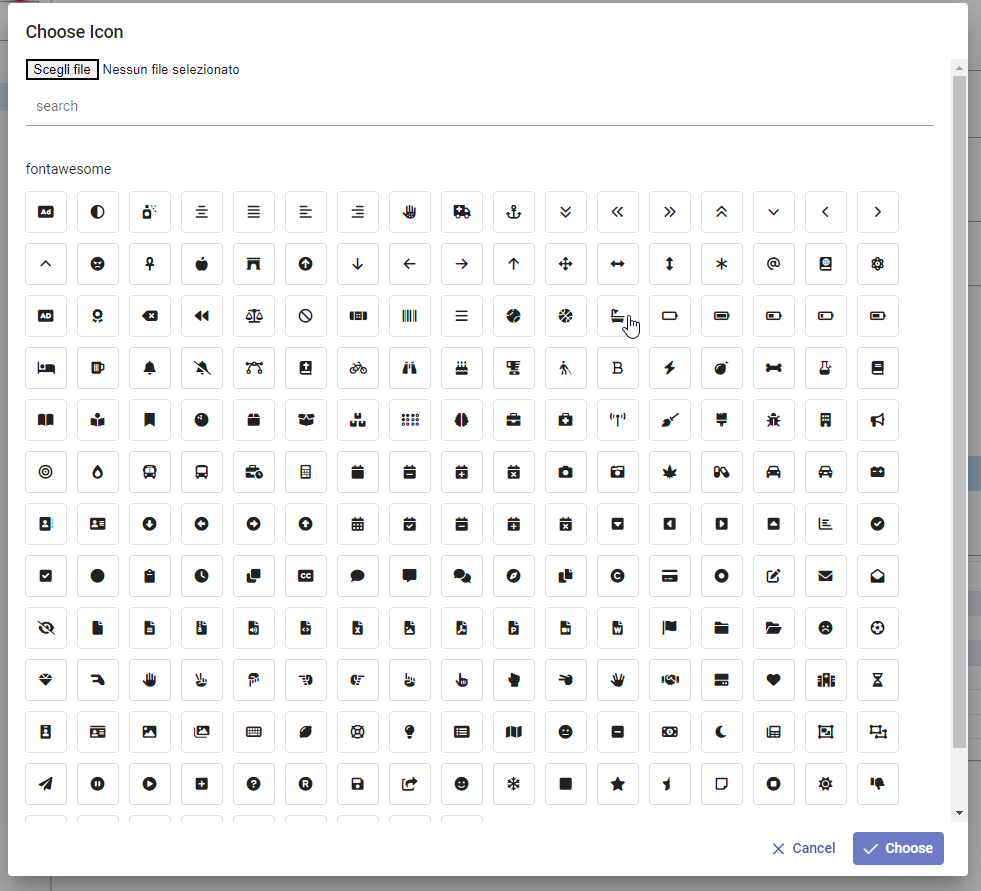
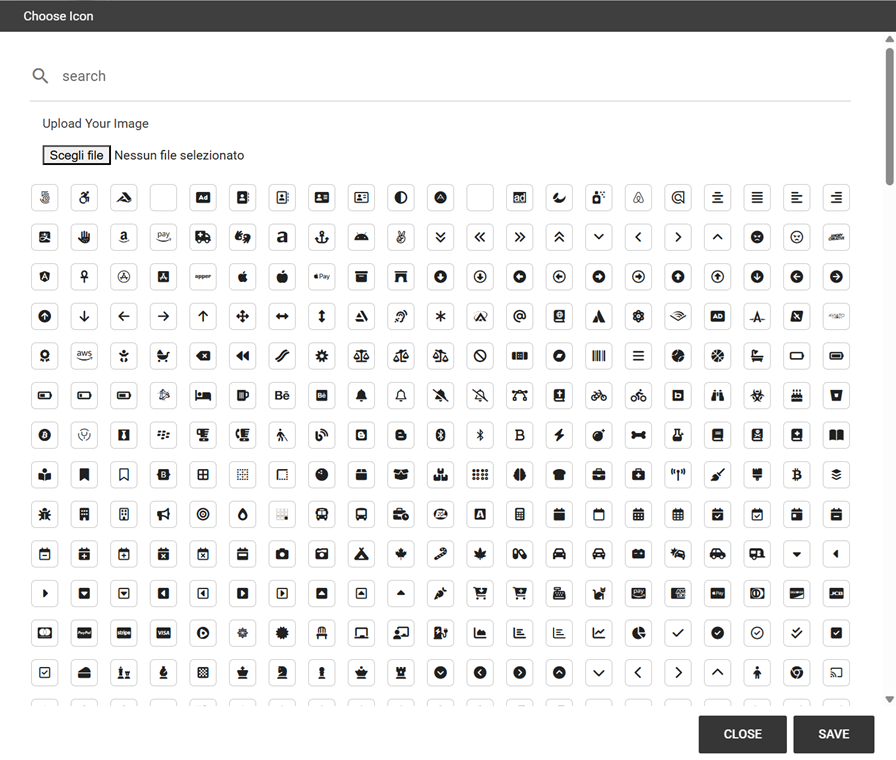
fix_menu_icons_text

Changed region(s): [[0.0, 0.0, 1.0, 1.0], [0.7188, 0.2118, 0.75, 0.2421]]

diff --git a/chapter_3/security_management/menu.rst b/chapter_3/security_management/menu.rst
@@ -31,10 +31,10 @@ Creating a menu, you can choose an icon to be shown in the main menu. **This fea
 
    Menu choose icon feature
 
-To associate an icon to the menu, click on "*CHOOSE ICON*" and then you can:
+To associate an icon to the menu, select the name of your menu and click the *CHOOSE ICON* functionality and you can:
 
--  choose icon from the predefined icons included in Knowage;
--  upload a new file containing a custom icon (*File type allowed are .ico, .svg, .png and the maximum size allowed is 50 KB*).
+-  pick an icon from the predefined icons included in Knowage;
+-  upload a new file containing a custom icon (*File types allowed are .ico, .svg, .png and the maximum size allowed is 50 KB*).
 
 To remove the menu icon, click on the trash basket.
 
@@ -54,7 +54,7 @@ If you decide to upload a new image, click on "*Browse...*" and select your file
 
 .. figure:: media/image109.png
 
-   Menu choose uploaded icon
+   Selecting a new file as icon
 
 There are four types of menu item content: empty, document, static page and functionality.
 
